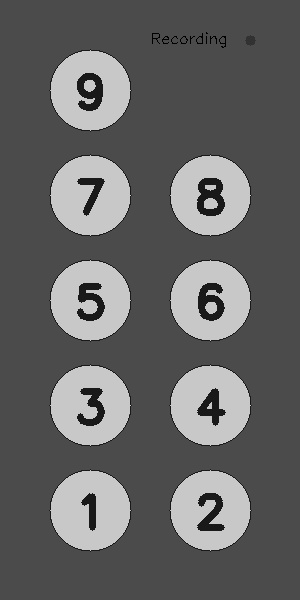
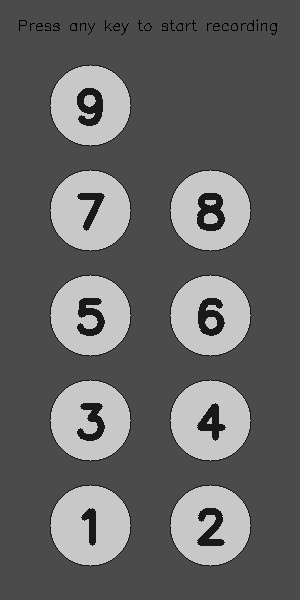
ui update

diff --git a/elevator.py b/elevator.py
@@ -21,11 +21,11 @@ def openWindow():
     cv2.imshow("elevator", img)
     return img
 
-def voiceDetect(img, filename, savePath = "./audio/", 
+def voiceDetect(filename, savePath = "./audio/", 
                 chunk = 1024, sample_format = pyaudio.paInt16, 
                 channels = 2, fs = 44100, seconds = 5):
     """
-    Record the voice with a microphone and generate a wav file.
+    Press any key to record the voice with a microphone and generate a wav file.
 
     ### input
         - img : np 3d array
@@ -42,10 +42,8 @@ def voiceDetect(img, filename, savePath = "./audio/",
             output wav file path
     """
 
-    cv2.circle(img, (250, 40), 5, (74, 255, 183), -1)
     p = pyaudio.PyAudio()
     cv2.waitKey(0)
-    cv2.imshow("elevator", img)
     frames = []
     stream = p.open(format=sample_format, channels=channels,
                      rate=fs, frames_per_buffer=chunk, input=True)
@@ -69,7 +67,7 @@ def voiceDetect(img, filename, savePath = "./audio/",
     wf.close()
 
     region = auditok.load(savePath + filename + ".wav")
-    splited = region.split(min_dur = 0.2, max_dur = 1.5, max_silence = 0.3, energy_threshold = 55)
+    splited = region.split(min_dur = 0.3, max_dur = 1.5, max_silence = 0.1, energy_threshold = 55)
     commands = []
     for i, r in enumerate(splited):
         commands.append(r.save(savePath + "command_" + str(i) + ".wav"))
@@ -100,7 +98,7 @@ def floorChoose(img, floor):
         This function has no output
     """
 
-    center = (210 - (floor % 2) * 120, 510 - int((floor - 1) / 2) * 105)
+    center = (210 - (floor % 2) * 120, 525 - int((floor - 1) / 2) * 105)
     cv2.circle(img, center, 40, (193, 244, 255), -1)
     cv2.putText(img, str(floor + int("0")), (center[0] - 15, center[1] + 17),
                  cv2.FONT_HERSHEY_SIMPLEX, 1.5, (25, 25, 25), 5)
@@ -110,7 +108,7 @@ def floorChoose(img, floor):
 
 # test
 img = openWindow()
-filepath = voiceDetect(img, "test")
+filepath = voiceDetect("test")
 print(filepath)
 floorChoose(img, 4)
 cv2.waitKey(0)
